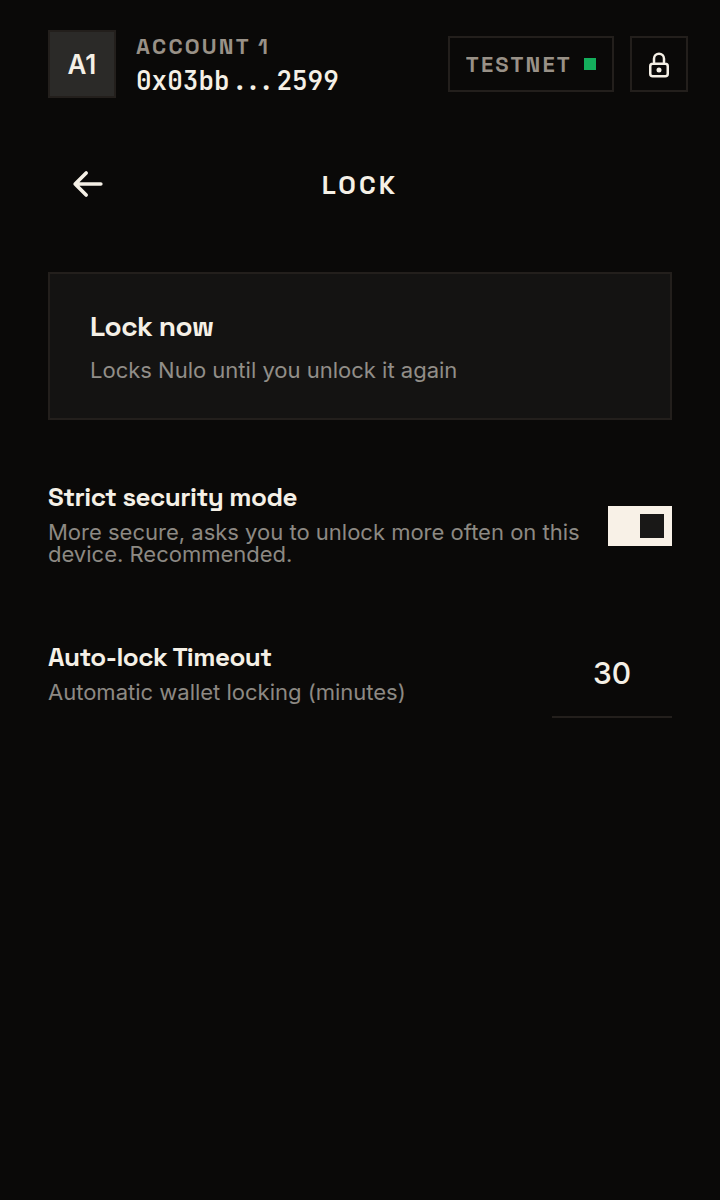
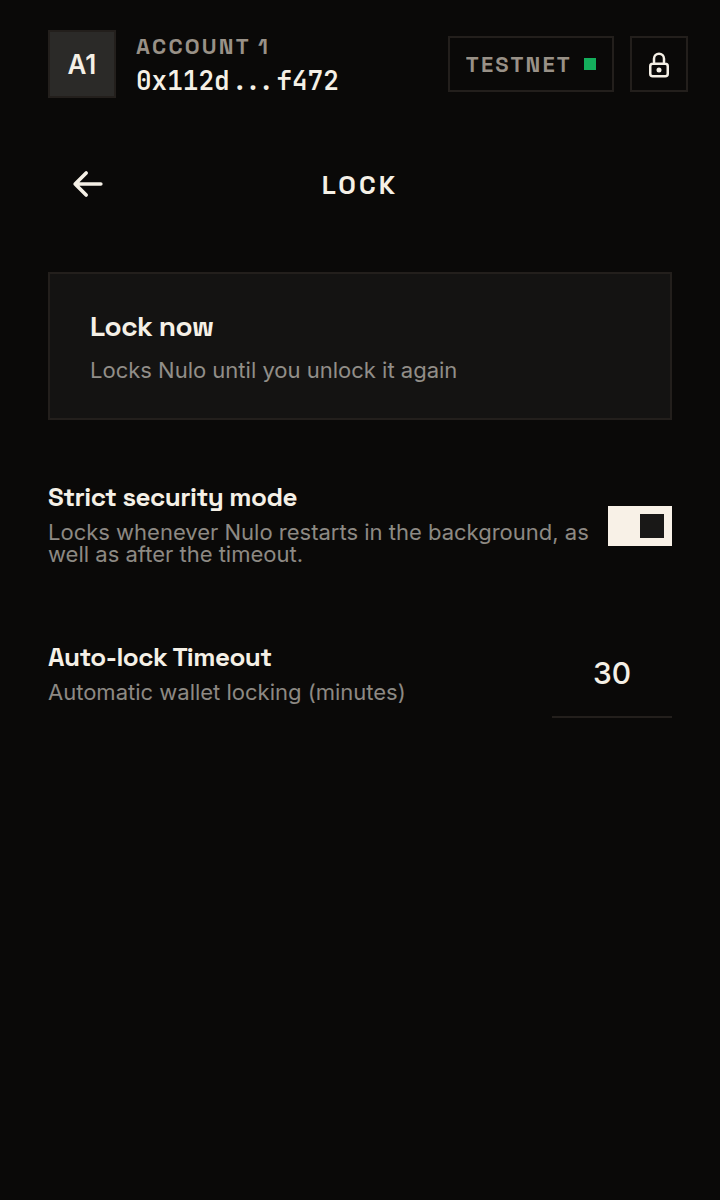
docs(store): "not audited" beside the no-telemetry line, in the listing and screenshot 4
The long description's "No account, no telemetry." is followed by "Not
audited. See the Privacy Policy for what leaves your device.", and
screenshot 4's caption carries the same two sentences. Screenshot 4's
popup is re-captured so it shows strict mode's current line.
BEFORE-LAUNCH.md § 4 names the owner's dashboard paste in both stores.

Changed region(s): [[0.0611, 0.4317, 0.825, 0.4933], [0.3667, 0.0617, 0.4889, 0.0925], [0.2139, 0.0617, 0.3056, 0.0925]]

diff --git a/apps/extension/scripts/store-art.ts b/apps/extension/scripts/store-art.ts
@@ -34,7 +34,8 @@ const FRAMES = [
 	{
 		capture: "security",
 		title: "Your keys stay with you.",
-		caption: "Protected by your password or your passkey. No server, no account, no telemetry.",
+		caption:
+			"Protected by your password or your passkey. No server, no account, no telemetry. Not audited. See the Privacy Policy for what leaves your device.",
 	},
 	{
 		capture: "history",

diff --git a/BEFORE-LAUNCH.md b/BEFORE-LAUNCH.md
@@ -215,6 +215,16 @@ place; its effective date is the day the promote publishes it, so until then it 
       #486 and #487 merged on 2026-10-15, and #497 promoted them before 0.31.0 went to the stores
       that day
 
+**Due at the release that carries the store's audit note** (owner's pick, 2026-11-02, decision
+page 93, P93-46 C): the long description's "No account, no telemetry." is followed by "Not audited.
+See the Privacy Policy for what leaves your device.", and screenshot 4's caption carries the same
+two sentences. The dashboards are filled by hand, after the promote lands:
+
+- [ ] Chrome (owner): paste `apps/extension/store/listing.md` § Long description and replace
+      screenshot 4 with `apps/extension/store/screenshot-4-1280x800.png`, before the release's
+      store dispatch (an approved staged submission locks every dashboard field)
+- [ ] AMO (owner): the same description and screenshot 4
+
 The owner's live-Testnet send moved to § 3: from the 1.0.0 candidate, before the promote (owner's
 call, 2026-10-19, decision page 68).
 

diff --git a/apps/extension/store/listing.md b/apps/extension/store/listing.md
@@ -28,7 +28,7 @@ PRIVATE BY DEFAULT
 
 YOURS ALONE
 • Your keys stay on your device, behind your password or passkey.
-• No account, no telemetry.
+• No account, no telemetry. Not audited. See the Privacy Policy for what leaves your device.
 • Back up your profile whenever you want.
 
 APPS HAVE TO ASK
